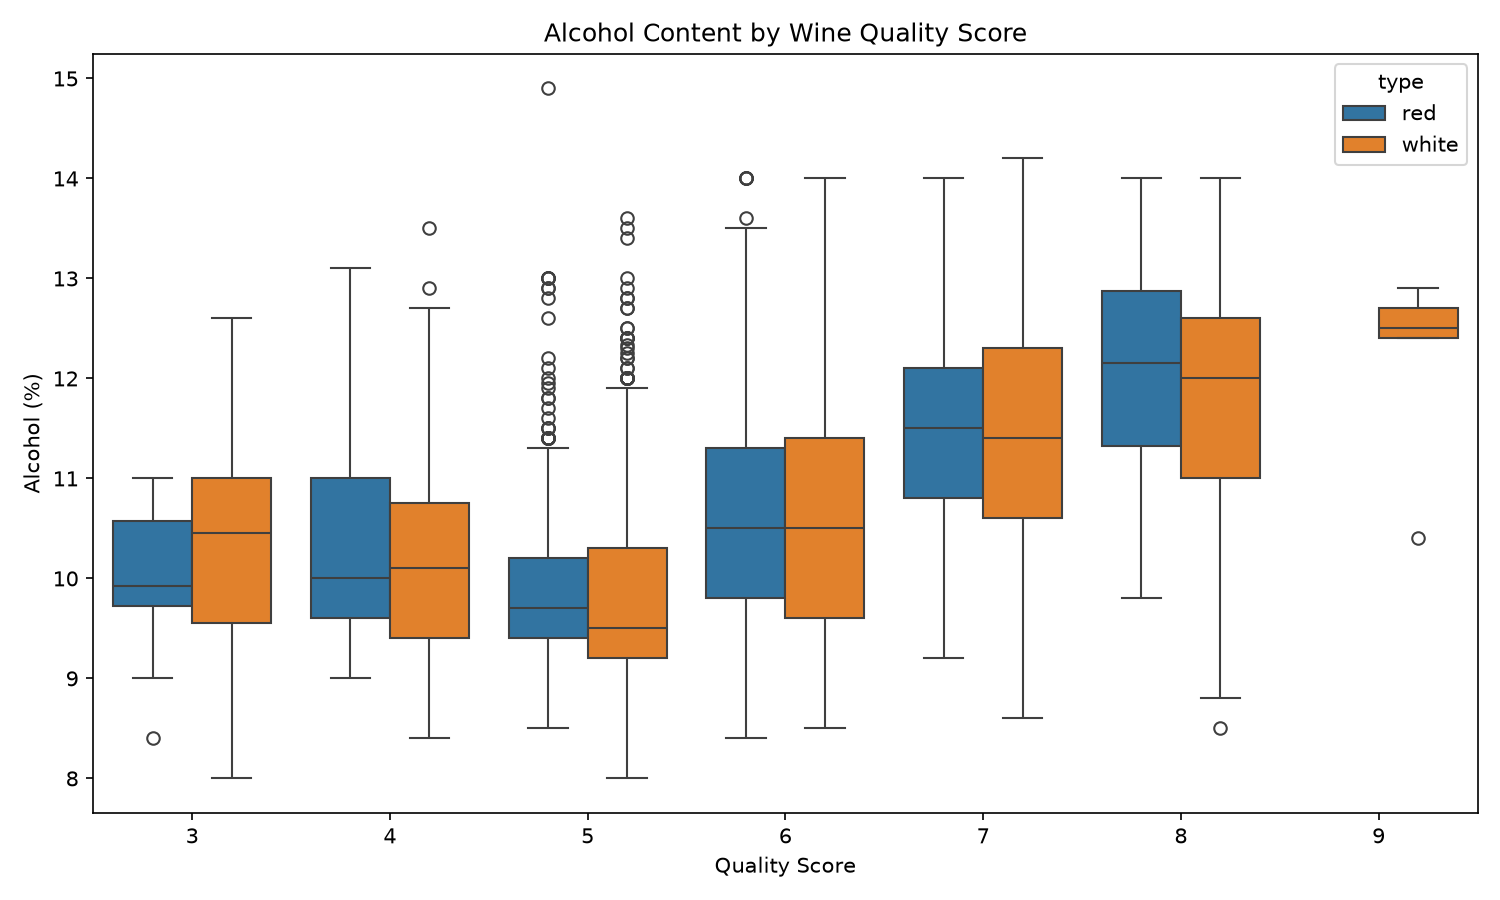
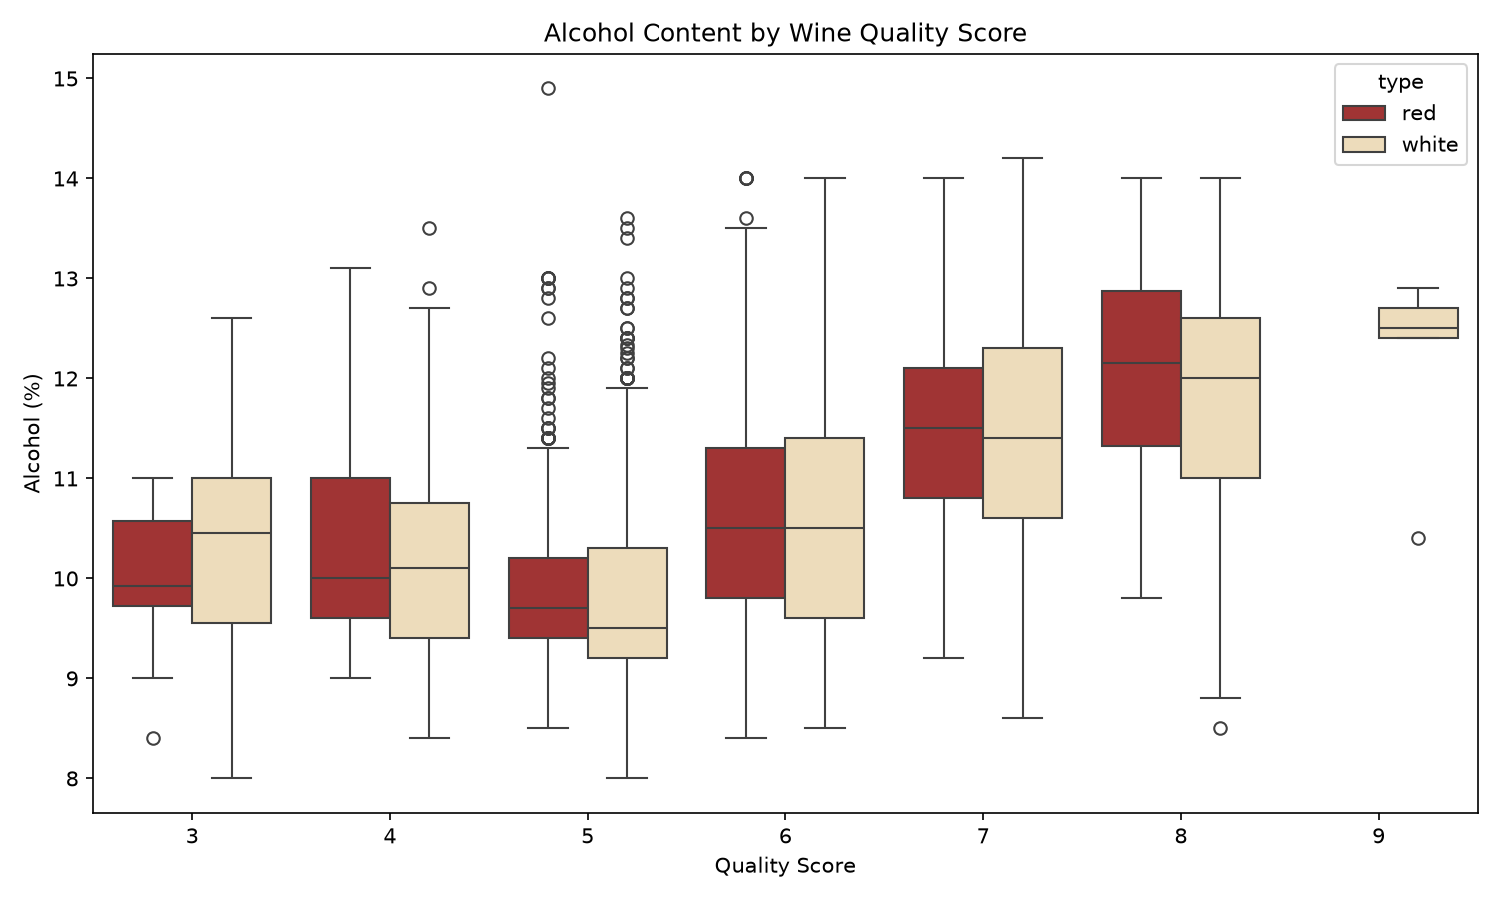
Added Why Scatter Plot & Why Boxplot?

diff --git a/analysis.py b/analysis.py
@@ -104,7 +104,13 @@ print(" " " ")
 
 # Step 6: Visualization of Boxplot
 plt.figure(figsize=(10, 6))
-sns.boxplot(data=wine, x="quality", y="alcohol", hue="type")
+sns.boxplot(
+    data=wine,
+    x="quality",
+    y="alcohol",
+    hue="type",
+    palette={"red": "firebrick", "white": "wheat"},
+)
 plt.title("Alcohol Content by Wine Quality Score")
 plt.xlabel("Quality Score")
 plt.ylabel("Alcohol (%)")

diff --git a/README.md b/README.md
@@ -311,14 +311,19 @@ print("Scatter plot with trend line saved as alcohol_vs_density.png")
 
 **Why alcohol and density (and not quality again):** 
 
-`quality` only takes whole numbers from 3 to 9, so a scatter plot with `quality` on an axis produces vertical
-stripes of points rather than a smooth cloud. A boxplot (Step 6) is the better tool
-for that comparison. Alcohol and density are both continuous measurements, and wine
+Alcohol and density are both continuous measurements, and wine
 chemistry gives a real reason to expect a relationship between them: alcohol is less
-dense than water, so wines with more alcohol tend to have lower density. That makes
-this pair a clearer, more classic example of what a scatter plot is for. This version
+dense than water, so wines with more alcohol tend to have lower density. This version
 also combines red and white into one group rather than splitting by `hue="type"`, to
 show the overall trend across every wine at once.
+
+**Why a scatter plot?** 
+
+`quality` only takes whole numbers from 3 to 9, so a scatter plot with `quality` on an axis produces vertical
+stripes of points rather than a smooth cloud. A boxplot (Step 6) is the better tool
+for that comparison. Alcohol and density, on the other hand, are both continuous, so
+plotting one against the other produces a smooth cloud of points rather than stripes -
+making this pair a clearer, more classic example of what a scatter plot is for.
 
 **What we found:** 
 
@@ -346,7 +351,6 @@ show the overall trend across every wine at once.
 - Add tests and set up continuous integration (CI) for this script.
 
 
-Add images of graphs to the readme file
 Make a table of contents
 Things we should have worked on (check from Kedar's work)
 
